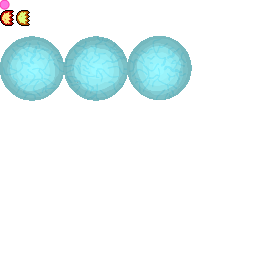
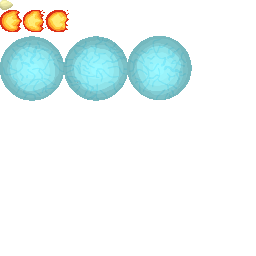
better shoot

Changed region(s): [[0.0, 0.0, 0.2812, 0.125]]

diff --git a/RopeMaster/RopeMaster/gameplay/Player.cs b/RopeMaster/RopeMaster/gameplay/Player.cs
@@ -24,7 +24,7 @@ namespace RopeMaster.gameplay
         private int burst = 0;
         private bool iscatched = false;
         private Radar radar;
-        protected Hitbox hitboxbig,hitboxsmall;
+        protected Hitbox hitboxbig,hitboxsmall, hitboxcancel;
         private Vector2 originp2, originnode;
         private Vector2 gunsrc;
 
@@ -48,6 +48,7 @@ namespace RopeMaster.gameplay
             sourcep1 = new Rectangle(0, 0, 80, 105);
             sourcep2 = new Rectangle(0, 154, 58, 84);
             srcnode = new Rectangle(0, 110, 20, 21);
+            hitboxcancel = new SphereBox(new Vector2(29, 10)+position,28);
             time = 0;
             radar = new Radar();
             origin = new Vector2(40, 30);
@@ -76,16 +77,14 @@ namespace RopeMaster.gameplay
 
         public override void setPosition(int x, int y)
         {
+            if (x < 32 || x > 1248 || y < 32 || y > 680) return;
             base.setPosition(x, y);
-            radar.setPosition(x, y);
-            hitboxbig.setPosition(this.position);
-            hitboxsmall.setPosition(this.rope.getAttachPosition());
         }
 
         public Vector2 getShotSource()
         {
             var r = rope.getAttachAngleF();
-            Vector2 v = gunsrc;
+            Vector2 v = gunsrc; 
             v.X *= (float)Math.Sin(r);
             v.Y *= (float)Math.Cos(r);
             return rope.getAttachPosition() + v;
@@ -150,7 +149,16 @@ namespace RopeMaster.gameplay
 
             }
             rope.setOrigin((int)this.position.X, (int)this.position.Y + 36);
+
+
+
             rope.Update(gameTime);
+            //up hitbox
+            radar.setPosition(this.position);
+            hitboxbig.setPosition(this.position);
+            hitboxsmall.setPosition(this.rope.getAttachPosition());
+            hitboxcancel.setPosition(this.rope.getAttachPosition() + new Vector2((float)Math.Sin(-rope.getAttachAngleF()) * 40, (float)Math.Cos(-rope.getAttachAngleF()) * 40));
+
         }
 
 
@@ -159,6 +167,10 @@ namespace RopeMaster.gameplay
             return this.hitboxbig;
         }
 
+        public Hitbox getCancelHitbox()
+        {
+            return this.hitboxcancel;
+        }
         public Hitbox getSmallHitbox()
         {
             return this.hitboxsmall;
@@ -171,6 +183,17 @@ namespace RopeMaster.gameplay
             Console.WriteLine("BIG ");
             velocity = new Vector2(-100, 400);
             die = 1;
+            sourcep1 = new Rectangle(160, 0, 80, 105);
+            float a = 0;
+            float off = (float)(2*Math.PI)/10f;
+           
+            for (int i = 0; i < 10; i++)
+            {
+                Console.WriteLine(new Vector2((float)Math.Cos(a), (float)Math.Sin(a)));
+                Gamescreen.Instance.particuleManager.AddParticule(new Feather(position + new Vector2((float)Math.Cos(a), (float)Math.Sin(a)) * 32, new Vector2((float)Math.Cos(a), (float)Math.Sin(a)) * 10, 1, Color.White, false));
+                a+=off;
+                
+            }
         }
 
         public void KillSmall()
@@ -225,9 +248,11 @@ namespace RopeMaster.gameplay
             var rotation = rope.getAttachAngle();
             rope.Draw(spriteBatch);
             spriteBatch.Draw(texture, this.getPosition(), sourcep1, Color.White, 0, origin, 1, SpriteEffects.None, 0);
-            spriteBatch.Draw(texture, position + poswing, srcWing, Color.White);
+            if(die%2==0) spriteBatch.Draw(texture, position + poswing, srcWing, Color.White);
             spriteBatch.Draw(texture, this.rope.getAttachPosition(), sourcep2, Color.White, rope.getAttachAngleF(), originp2, 1, SpriteEffects.None, 0);
             spriteBatch.Draw(texture, this.rope.getAttachPosition(), srcnode, Color.White, rope.getAttachAngleF(), originnode, 1, SpriteEffects.None, 0);
+
+            spriteBatch.Draw(texture, this.hitboxcancel.getPosition(), new Rectangle(60,176,60,60), Color.White, rope.getAttachAngleF(), new Vector2(30,30), 1, SpriteEffects.None, 0);
         }
     }
 }

diff --git a/RopeMaster/RopeMaster/gameplay/Enemies/Gojira.cs b/RopeMaster/RopeMaster/gameplay/Enemies/Gojira.cs
@@ -84,7 +84,7 @@ namespace RopeMaster.gameplay.Enemies
         public Gojira()
             : base()
         {
-            nbBubblesphase = 2;
+            nbBubblesphase = 10;
             hp = 100;
             dead = false;
             bubbleList = new List<Bubble>(nbBubblesphase + 1);
@@ -322,8 +322,8 @@ namespace RopeMaster.gameplay.Enemies
             if (fireCD > 400)
             {
 
-                var nb = (int)(firephase / 8) + 3;
-                if (nb == 5)
+                var nb = (int)(firephase / 8) + 4;
+                if (nb == 6)
                 {
                     changePhase();
                     return;
@@ -335,7 +335,7 @@ namespace RopeMaster.gameplay.Enemies
                 for (int i = 0; i < nb; i++)
                 {
                     Gamescreen.Instance.particuleManager.AddParticule(new Smoke(this.position + this.mouthShot + this.gojPos + v, rand.GetRandomTrajectory(200, MathHelper.ToRadians(200), MathHelper.ToRadians(240)), rand.GetRandomFloat(0.7f, 1f), Color.White, false));
-                    var s = new Shot(this.position + gojPos + mouthShot, new Vector2((float)Math.Cos(angle), (float)Math.Sin(angle)) * 0.5f, 200, 0, false, 1, 2);
+                    var s = new Shot(this.position + gojPos + mouthShot, new Vector2((float)Math.Cos(angle), (float)Math.Sin(angle)) * 0.5f, 200, 0, false, 1, 3);
                     s.angle = (float)(angle - Math.PI);
                     Gamescreen.Instance.shotManager.AddShotEnemy(s);
                     angle += offset;
@@ -392,7 +392,7 @@ namespace RopeMaster.gameplay.Enemies
                 if (bubbleCD > 200)
                 {
                     var rand = Game1.Instance.randomizator;
-                    nextangle = rand.GetRandomFloat(0 + Math.PI / 64, Math.PI - Math.PI / 64);
+                    nextangle = rand.GetRandomFloat(0 + Math.PI / 10, Math.PI - Math.PI / 10);
                     wheelmoving = true;
                     wheelway = (rotation > nextangle) ? -1 : 1;
                 }
@@ -406,7 +406,7 @@ namespace RopeMaster.gameplay.Enemies
                     Vector2 v = new Vector2((float)Math.Sin(rotation), (float)Math.Cos(rotation));
                     var p = this.position + bubbleSpawner;
 
-                    Bubble b = new Bubble(p, 0, v * -1);
+                    Bubble b = new Bubble(p, 0, v * -0.8f);
                     Gamescreen.Instance.shotManager.AddShotEnemy(b);
 
                     bubbleCD = 0;
@@ -418,7 +418,7 @@ namespace RopeMaster.gameplay.Enemies
                 }
                 else
                 {
-                    rotation += wheelway * 0.05f;
+                    rotation += wheelway * 0.02f;
                 }
             }
         }
@@ -438,7 +438,7 @@ namespace RopeMaster.gameplay.Enemies
 
         private void changePhase()
         {
-            shootPhase = (shootPhase + 1) % 4;
+            shootPhase = (shootPhase + 1) % 5;
             if (!dead & shootPhase == 0)
             {
                 //drop bubble

diff --git a/RopeMaster/RopeMaster/Core/ShotManager.cs b/RopeMaster/RopeMaster/Core/ShotManager.cs
@@ -37,8 +37,8 @@ namespace RopeMaster.Core
         public ShotManager()
         {
             playerShots = new List<Shot>();
-            srcRectPlayer = new Rectangle(0, 0, 10, 10);
-            srcFire = new Rectangle(0, 10, 16, 16);
+            srcRectPlayer = new Rectangle(0, 0, 13, 10);
+            srcFire = new Rectangle(0, 10, 23, 23);
             srcPlasma = new Rectangle(0, 36, 64, 64);
             ennemiesShots = new List<Shot>();
             mapCollshot = new Color[srcRectPlayer.Width * srcRectPlayer.Height];
@@ -128,7 +128,7 @@ namespace RopeMaster.Core
 
             var big = (SphereBox) Gamescreen.Instance.player.getBigHitbox();
             var small = (SphereBox)Gamescreen.Instance.player.getSmallHitbox();
-
+            var cancel = (SphereBox)Gamescreen.Instance.player.getCancelHitbox();
             foreach (Shot s in ennemiesShots)
             {
                 s.Update(gameTime);
@@ -143,12 +143,20 @@ namespace RopeMaster.Core
                     {
                         Gamescreen.Instance.player.KillBig();
                         s.Exterminate = true;
+                        Gamescreen.Instance.combobar.combo = 0;
                     }
                     if (small.collide(pos, s.shotWidth))
                     {
                         Gamescreen.Instance.player.KillSmall();
                         s.Exterminate = true;
+                        Gamescreen.Instance.combobar.combo = 0;
                     }
+                    if (cancel.collide(pos, s.shotWidth))
+                    {
+                        s.Exterminate = true;
+                        Gamescreen.Instance.combobar.AddCombo(5, "Cancel !");
+                    }
+
 
 
                 }

diff --git a/RopeMaster/RopeMaster/Graphics/Particules/Feather.cs b/RopeMaster/RopeMaster/Graphics/Particules/Feather.cs
@@ -1,0 +1,37 @@
+using System;
+using System.Collections.Generic;
+using System.Linq;
+using System.Text;
+using Glitch.Engine.Particules;
+using Microsoft.Xna.Framework;
+using RopeMaster;
+
+namespace Glitch.Graphics.particules
+{
+    public class Feather : Particule
+    {
+        public Feather(Vector2 location, Vector2 trajectory, float scale, Color color, bool background)
+            : base(location, trajectory, new Rectangle(Game1.Instance.randomizator.GetRandomInt(0, 2) * 20, 255, 20, 20), 3f, scale, color, background)
+        {
+
+        }
+
+        public override void Update(GameTime gameTime)
+        {
+            float elapsedTime = (float)gameTime.ElapsedGameTime.TotalSeconds;
+
+            // Slowly move the smoke
+            if (TimeToLive < 500f)
+            {
+                if (trajectory.Y < -10.0f) trajectory.Y += elapsedTime * 500f;
+                if (trajectory.X < -10.0f) trajectory.X += elapsedTime * 150f;
+                if (trajectory.Y > 10.0f) trajectory.Y += elapsedTime * 150f;
+            }
+            trajectory.Y += 1;
+            alpha -= elapsedTime;
+            if (alpha < 0) alpha = 0f;
+
+            base.Update(gameTime);
+        }
+    }
+}

diff --git a/RopeMaster/RopeMaster/gameplay/Enemies/Bubble.cs b/RopeMaster/RopeMaster/gameplay/Enemies/Bubble.cs
@@ -14,12 +14,12 @@ namespace RopeMaster.gameplay.Enemies
     public class Bubble : Shot
     {
         
-  
 
         public Bubble(Vector2 pos, int maxX, Vector2 dir)
             : base(pos, dir, 1, 0, false, 2,3)
         {
             shotWidth = 32;
+
 
         }
 

diff --git a/RopeMaster/RopeMaster/Core/Hitbox.cs b/RopeMaster/RopeMaster/Core/Hitbox.cs
@@ -23,7 +23,10 @@ namespace RopeMaster.Core
         }
 
 
-
+        public virtual Vector2 getPosition()
+        {
+            return position;
+        }
 
 
         public abstract bool collide(Vector2 p2, int r);
